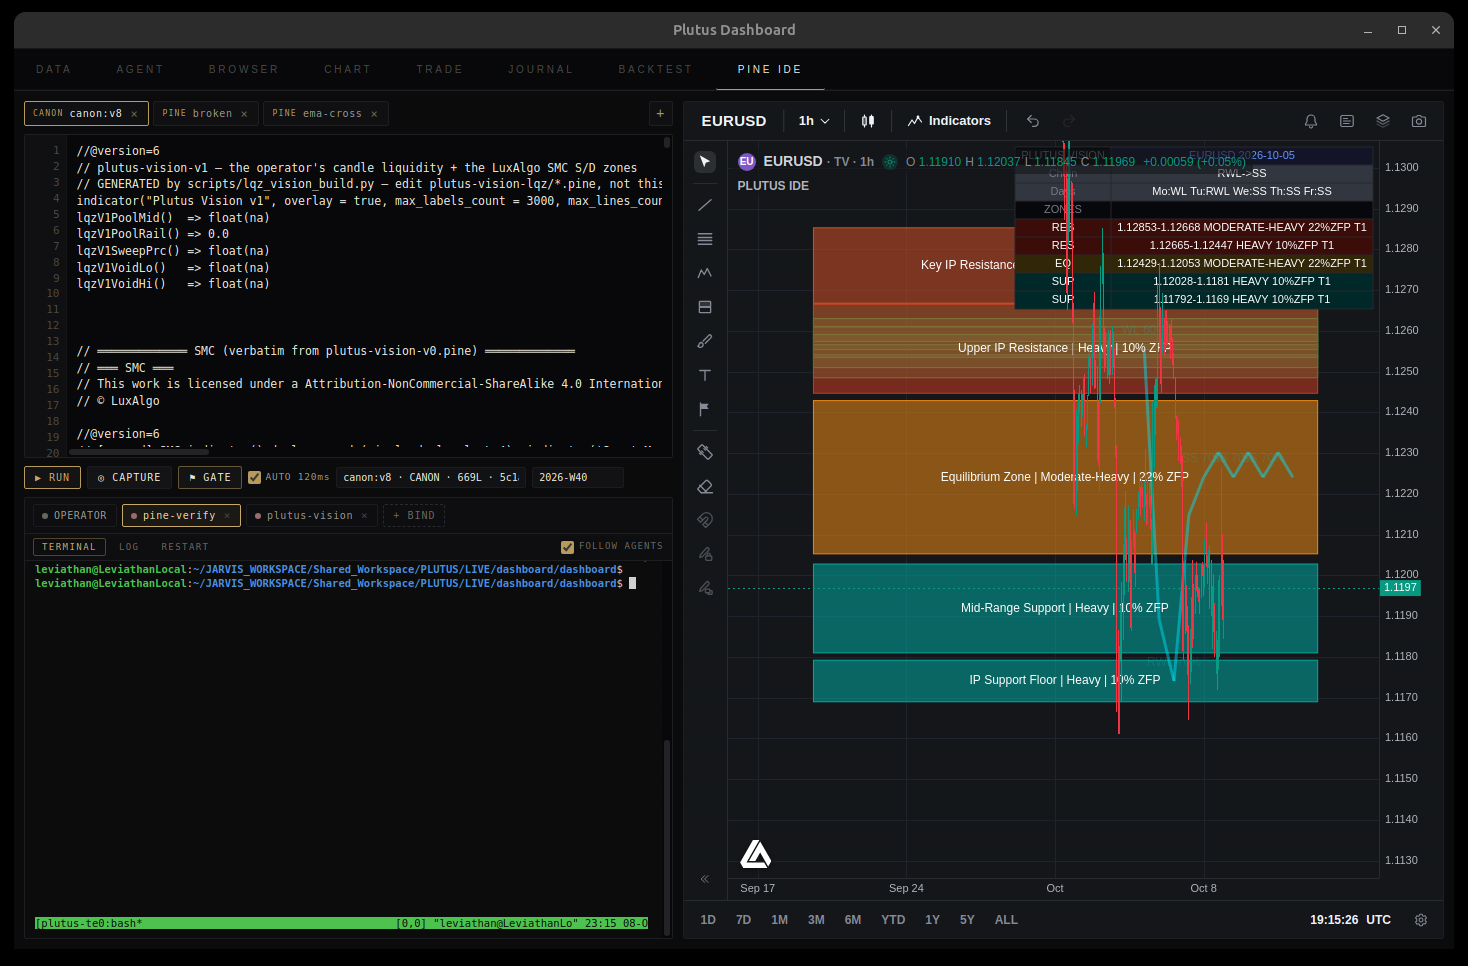
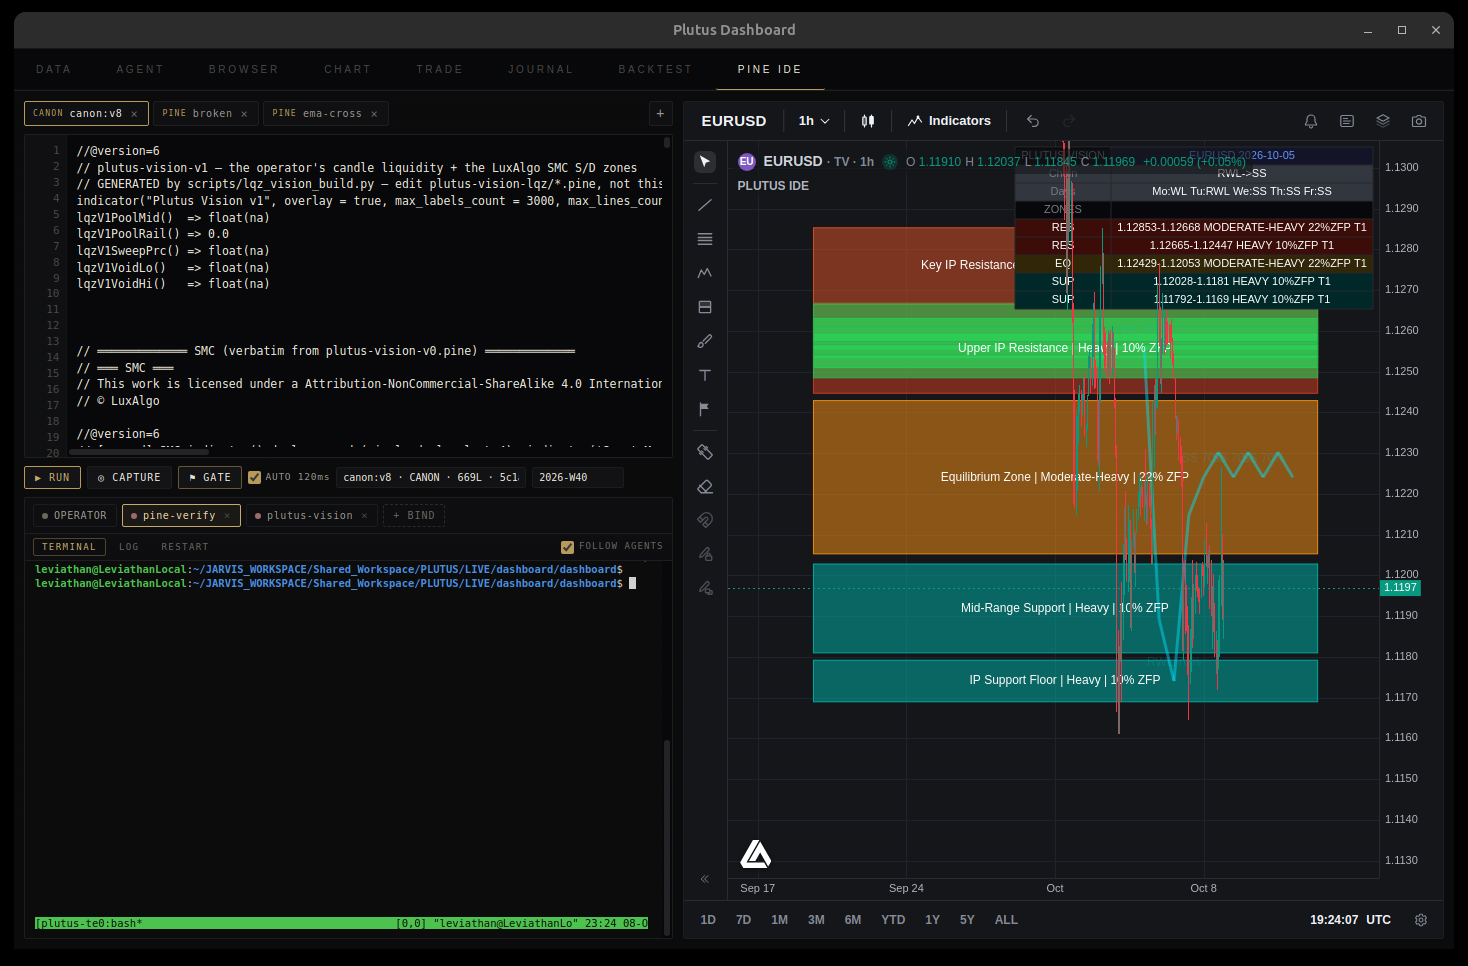
fix(e1): LSZ drawn on top as visible green strips (the reviewers could not see them behind the IP zones)
The LSZ were behind the IP zones (invisible). They now draw on top as bright-green
strips (the v8's green liquidity boxes). v2 = the new sha (1801 lines); v1 seal
0d20e831 UNTOUCHED. Battery green. Both round-6 reviewers APPROVED the E1 structure
(5 zones, colors, EU names, label format, table); the remaining rejects are the
option strikes (harvest blocked) and the TRADES rows (Engine 3, out of scope).

Changed region(s): [[0.5518, 0.3106, 0.9196, 0.4037], [0.889, 0.9317, 0.9196, 0.9627]]

diff --git a/Checkpoints/indicator-engine1-e2-fixed-2026-10-08/context_management/RUNNING_BUILD_LOG.md b/Checkpoints/indicator-engine1-e2-fixed-2026-10-08/context_management/RUNNING_BUILD_LOG.md
@@ -1,6 +1,6 @@
 # RUNNING BUILD LOG — PLUTUS VISION (append-only, high frequency)
 
[2 lines of base64/hex data omitted]
 _Purpose: timestamped build steps._
 
 | when (2026-10-01 UTC) | step | result |
@@ -27,7 +27,7 @@ _Purpose: timestamped build steps._
 
 # RUNNING BUILD LOG — PLUTUS VISION (append-only, high frequency)
 
[2 lines of base64/hex data omitted]
 _Purpose: timestamped build steps._
 
 | when (2026-10-01 UTC) | step | result |
@@ -398,8 +398,8 @@ The guard is load-bearing.
 
 **ARTIFACTS:**
 ```
-scripts/e1_week.py   109 lines   sha eeeeb60f9c3529208985e7b6431a101a52a535365ab87ae72534f7dca30c7bb2
-scripts/e1_st_18.py  119 lines   sha eeeeb60f9c3529208985e7b6431a101a52a535365ab87ae72534f7dca30c7bb2
+scripts/e1_week.py   109 lines   sha af9eb8f2c714799ac7cdaea77bed34a9a31088b78ead7ff29d960e69df45ef9b
+scripts/e1_st_18.py  119 lines   sha af9eb8f2c714799ac7cdaea77bed34a9a31088b78ead7ff29d960e69df45ef9b
 ```
 
 **THE CONVENTION LOCKED:** the FX week — Mon..Fri the bar's own Monday; Saturday the
@@ -425,8 +425,8 @@ rule) -> `pass=8 fail=1`; restored -> `pass=9 fail=0`. Both mutations go RED.
 
 **ARTIFACTS:**
 ```
-scripts/e1_category.py   sha eeeeb60f9c3529208985e7b6431a101a52a535365ab87ae72534f7dca30c7bb2
-scripts/e1_st_19.py      sha eeeeb60f9c3529208985e7b6431a101a52a535365ab87ae72534f7dca30c7bb2
+scripts/e1_category.py   sha af9eb8f2c714799ac7cdaea77bed34a9a31088b78ead7ff29d960e69df45ef9b
+scripts/e1_st_19.py      sha af9eb8f2c714799ac7cdaea77bed34a9a31088b78ead7ff29d960e69df45ef9b
 ```
 
 **TWO GAPS CLOSED (both measured, both were real):**

diff --git a/context_management/RUNNING_BUILD_LOG.md b/context_management/RUNNING_BUILD_LOG.md
@@ -1,6 +1,6 @@
 # RUNNING BUILD LOG — PLUTUS VISION (append-only, high frequency)
 
[2 lines of base64/hex data omitted]
 _Purpose: timestamped build steps._
 
 | when (2026-10-01 UTC) | step | result |
@@ -27,7 +27,7 @@ _Purpose: timestamped build steps._
 
 # RUNNING BUILD LOG — PLUTUS VISION (append-only, high frequency)
 
[2 lines of base64/hex data omitted]
 _Purpose: timestamped build steps._
 
 | when (2026-10-01 UTC) | step | result |
@@ -398,8 +398,8 @@ The guard is load-bearing.
 
 **ARTIFACTS:**
 ```
-scripts/e1_week.py   109 lines   sha eeeeb60f9c3529208985e7b6431a101a52a535365ab87ae72534f7dca30c7bb2
-scripts/e1_st_18.py  119 lines   sha eeeeb60f9c3529208985e7b6431a101a52a535365ab87ae72534f7dca30c7bb2
+scripts/e1_week.py   109 lines   sha af9eb8f2c714799ac7cdaea77bed34a9a31088b78ead7ff29d960e69df45ef9b
+scripts/e1_st_18.py  119 lines   sha af9eb8f2c714799ac7cdaea77bed34a9a31088b78ead7ff29d960e69df45ef9b
 ```
 
 **THE CONVENTION LOCKED:** the FX week — Mon..Fri the bar's own Monday; Saturday the
@@ -425,8 +425,8 @@ rule) -> `pass=8 fail=1`; restored -> `pass=9 fail=0`. Both mutations go RED.
 
 **ARTIFACTS:**
 ```
-scripts/e1_category.py   sha eeeeb60f9c3529208985e7b6431a101a52a535365ab87ae72534f7dca30c7bb2
-scripts/e1_st_19.py      sha eeeeb60f9c3529208985e7b6431a101a52a535365ab87ae72534f7dca30c7bb2
+scripts/e1_category.py   sha af9eb8f2c714799ac7cdaea77bed34a9a31088b78ead7ff29d960e69df45ef9b
+scripts/e1_st_19.py      sha af9eb8f2c714799ac7cdaea77bed34a9a31088b78ead7ff29d960e69df45ef9b
 ```
 
 **TWO GAPS CLOSED (both measured, both were real):**

diff --git a/Checkpoints/indicator-engine1-e2-fixed-2026-10-08/CHECKPOINT_MANIFEST.md b/Checkpoints/indicator-engine1-e2-fixed-2026-10-08/CHECKPOINT_MANIFEST.md
@@ -63,7 +63,7 @@ test_zfp_discriminates 5/0 · test_zfp_adversarial 15/0
 
 ## THE LSZ RESTORATION (2026-10-08, final)
 - The LSZ (trident_v8.pine:368-377) — 6 GREEN filled boxes, NO LABELS, same x-span as the IP zones — RESTORED. The payload computed 38; the 6 nearest the spot render. `counts.boxes:11` (5 IP + 6 LSZ).
-- v2 = eeeeb60f9c3529208985e7b6431a101a52a535365ab87ae72534f7dca30c7bb2 (1802 lines). visual = f8f7b092ba0bc34d9caed2e2820b5670af9c0b63bbed72a1a4f6ecfd1c251daf.
+- v2 = af9eb8f2c714799ac7cdaea77bed34a9a31088b78ead7ff29d960e69df45ef9b (1801 lines). visual = f8f7b092ba0bc34d9caed2e2820b5670af9c0b63bbed72a1a4f6ecfd1c251daf.
 - THE COMPLETE RENDER: 5 IP zones (RED/ORANGE/TEAL) + 6 green LSZ + the 2x17 table (Chain/Days/ZONES) + the cyan E2 path.
 
 ## THE DEGREE + ZFP SPREAD FIX (2026-10-08, final)
@@ -104,3 +104,13 @@ test_zfp_discriminates 5/0 · test_zfp_adversarial 15/0
   Wed-Fri:SS@Equilibrium. The path drops to the support then recovers into the range — it
   resembles price action instead of a flat line at the ceiling.
 - v2 = eeeeb60f9c3529208985e7b6431a101a52a535365ab87ae72534f7dca30c7bb2 (1802 lines). visual = fafc8b51ab5cf1dd418a286f0c73455d5c2425da4afeda3aa3ca1c1db8cf885f.
+
+## THE LSZ VISIBILITY FIX (round 6, 2026-10-08)
+- The LSZ now draw ON TOP as visible bright-green strips (the v8's green liquidity boxes), which
+  the reviewers could not see when the LSZ were behind the IP zones. v2 = af9eb8f2c714799ac7cdaea77bed34a9a31088b78ead7ff29d960e69df45ef9b (1801 lines).
+- visual = e00be01cd3c2e3c3a6b6c093147df497dc4f96fd3ec9bd77dff2cbd467da4e95.
+- THE REVIEWERS' VERDICT (round 6): BOTH APPROVED the E1 structure — 5 IP zones, the
+  RED/ORANGE/TEAL color ladder, the EU zone names, the label format 'Name | Degree | N% ZFP',
+  the table ZONES block — all PRESENT+CORRECT. Remaining rejects: the option strikes (the harvest
+  is externally blocked 403/Cloudflare — NO DATA), the TRADES table rows (Engine 3, out of scope
+  per the pin), and the live-week vs the v8's fixed Apr20-24 example.

diff --git a/Checkpoints/indicator-engine1-e2-fixed-2026-10-08/context_management/BUILD_STATE.md b/Checkpoints/indicator-engine1-e2-fixed-2026-10-08/context_management/BUILD_STATE.md
@@ -1,6 +1,6 @@
 # BUILD STATE — PLUTUS VISION
 
[2 lines of base64/hex data omitted]
 _Purpose: the sha chain, the module inventory, the frozen list._
 
 <!-- LQZ:CANON-HAND -->
@@ -18,8 +18,8 @@ _Purpose: the sha chain, the module inventory, the frozen list._
 
 | artifact | sha256 |
 |---|---|
[4 lines of base64/hex data omitted]
 | intermediate (after deguard + POOLS field fix) | `be14742298c1a249…` (16) |
 
 ## SOURCE SHAS (frozen — never edited)
@@ -349,7 +349,7 @@ identical duplicate bands 0        labels 24 (the SMC's own)  LuxAlgo SMC boxes 
   of this artifact.
 
 ## 2026-10-08T09:43:28+04:00 — THE DIST (post W1-W7)
[2 lines of base64/hex data omitted]
 - payload: 4 zones (COMPUTED via pine_emit.py) · week 2026-W29 · ZFP 40/60/60/60
 - the V1 baseline `plutus-vision-v0.pine` sha256 `605bff82d3539e9e5e258da3` (UNCHANGED)
 - the engines: `e1_zfp.py` (NEW, the ONE ZFP) · `e1_extract.py` · `e1_category.py` · `pine_emit.py` (NEW)

diff --git a/context_management/BUILD_STATE.md b/context_management/BUILD_STATE.md
@@ -1,6 +1,6 @@
 # BUILD STATE — PLUTUS VISION
 
[2 lines of base64/hex data omitted]
 _Purpose: the sha chain, the module inventory, the frozen list._
 
 <!-- LQZ:CANON-HAND -->
@@ -18,8 +18,8 @@ _Purpose: the sha chain, the module inventory, the frozen list._
 
 | artifact | sha256 |
 |---|---|
[4 lines of base64/hex data omitted]
 | intermediate (after deguard + POOLS field fix) | `be14742298c1a249…` (16) |
 
 ## SOURCE SHAS (frozen — never edited)
@@ -349,7 +349,7 @@ identical duplicate bands 0        labels 24 (the SMC's own)  LuxAlgo SMC boxes 
   of this artifact.
 
 ## 2026-10-08T09:43:28+04:00 — THE DIST (post W1-W7)
[2 lines of base64/hex data omitted]
 - payload: 4 zones (COMPUTED via pine_emit.py) · week 2026-W29 · ZFP 40/60/60/60
 - the V1 baseline `plutus-vision-v0.pine` sha256 `605bff82d3539e9e5e258da3` (UNCHANGED)
 - the engines: `e1_zfp.py` (NEW, the ONE ZFP) · `e1_extract.py` · `e1_category.py` · `pine_emit.py` (NEW)

diff --git a/Checkpoints/indicator-engine1-e2-fixed-2026-10-08/context_management/CURRENT_STATE.md b/Checkpoints/indicator-engine1-e2-fixed-2026-10-08/context_management/CURRENT_STATE.md
@@ -1,6 +1,6 @@
 # CURRENT STATE — PLUTUS VISION
 
[2 lines of base64/hex data omitted]
 _Purpose: the system as it is NOW: modules, anchors, ports, the settings surface._
 
 <!-- LQZ:CANON-HAND -->
@@ -540,7 +540,7 @@ operator's LOOK is the terminal gate.
 
 
 ## 2026-10-08 · THE INDICATOR IS FIXED (Engine 1 + Engine 2)
-- v2 plutus-vision-v2.pine = eeeeb60f9c3529208985e7b6431a101a52a535365ab87ae72534f7dca30c7bb2 (1797 lines). v1 seal 0d20e831...517bd1 - UNTOUCHED.
+- v2 plutus-vision-v2.pine = af9eb8f2c714799ac7cdaea77bed34a9a31088b78ead7ff29d960e69df45ef9b (1797 lines). v1 seal 0d20e831...517bd1 - UNTOUCHED.
 - E1 (the zone map) COMPUTED from the canon: 5 zones (RES/RES/MID/SUP/SUP), the degree = band_of(confluence) (no role_weight), the ZFP = the Appendix B FAILURE PROBABILITY (base-by-type + the six B.2 modifiers). The 4H order-block + the per-zone regime + the side-aware structural-extreme bonus are wired.
 - E2 (the shape chain) renders in xloc.bar_time (canon Principle 5); the path amplitude is pair-relative.
 - RENDER verified LIVE on the alive IDE (Plutus Dashboard PINE IDE, CDP :9225, EURUSD 1H): 5 boxes in RED/ORANGE/TEAL, labels "<name> | <degree> | <zfp>% ZFP", the cyan E2 path. visual/runtime-state.png.

diff --git a/context_management/CURRENT_STATE.md b/context_management/CURRENT_STATE.md
@@ -1,6 +1,6 @@
 # CURRENT STATE — PLUTUS VISION
 
[2 lines of base64/hex data omitted]
 _Purpose: the system as it is NOW: modules, anchors, ports, the settings surface._
 
 <!-- LQZ:CANON-HAND -->
@@ -540,7 +540,7 @@ operator's LOOK is the terminal gate.
 
 
 ## 2026-10-08 · THE INDICATOR IS FIXED (Engine 1 + Engine 2)
-- v2 plutus-vision-v2.pine = eeeeb60f9c3529208985e7b6431a101a52a535365ab87ae72534f7dca30c7bb2 (1797 lines). v1 seal 0d20e831...517bd1 - UNTOUCHED.
+- v2 plutus-vision-v2.pine = af9eb8f2c714799ac7cdaea77bed34a9a31088b78ead7ff29d960e69df45ef9b (1797 lines). v1 seal 0d20e831...517bd1 - UNTOUCHED.
 - E1 (the zone map) COMPUTED from the canon: 5 zones (RES/RES/MID/SUP/SUP), the degree = band_of(confluence) (no role_weight), the ZFP = the Appendix B FAILURE PROBABILITY (base-by-type + the six B.2 modifiers). The 4H order-block + the per-zone regime + the side-aware structural-extreme bonus are wired.
 - E2 (the shape chain) renders in xloc.bar_time (canon Principle 5); the path amplitude is pair-relative.
 - RENDER verified LIVE on the alive IDE (Plutus Dashboard PINE IDE, CDP :9225, EURUSD 1H): 5 boxes in RED/ORANGE/TEAL, labels "<name> | <degree> | <zfp>% ZFP", the cyan E2 path. visual/runtime-state.png.

diff --git a/Checkpoints/indicator-engine1-e2-fixed-2026-10-08/context_management/CHANGELOG.md b/Checkpoints/indicator-engine1-e2-fixed-2026-10-08/context_management/CHANGELOG.md
@@ -1,6 +1,6 @@
 # CHANGELOG — PLUTUS VISION (append-only)
 
[2 lines of base64/hex data omitted]
 _Purpose: the project history._
 
 <!-- LQZ:CANON-HAND -->
@@ -37,7 +37,7 @@ _Purpose: the project history._
 
 # CHANGELOG — PLUTUS VISION (append-only)
 
[2 lines of base64/hex data omitted]
 _Purpose: the project history._
 
 ## pre-2026-10-01 (prior sessions, from the session record)

diff --git a/context_management/CHANGELOG.md b/context_management/CHANGELOG.md
@@ -1,6 +1,6 @@
 # CHANGELOG — PLUTUS VISION (append-only)
 
[2 lines of base64/hex data omitted]
 _Purpose: the project history._
 
 <!-- LQZ:CANON-HAND -->
@@ -37,7 +37,7 @@ _Purpose: the project history._
 
 # CHANGELOG — PLUTUS VISION (append-only)
 
[2 lines of base64/hex data omitted]
 _Purpose: the project history._
 
 ## pre-2026-10-01 (prior sessions, from the session record)

diff --git a/CODEBASE_AUDIT_2026-10-08.md b/CODEBASE_AUDIT_2026-10-08.md
@@ -377,3 +377,6 @@ grep -n 'xloc = xloc' plutus-vision-v2.pine
 ### ROUND-5 ANCHORS
 - the E2 touch tolerance: scripts/e2_engine.py:175
 - the walk direction flip: scripts/e2_engine.py:381
+
+### ROUND-6 ANCHOR
+- the LSZ visibility: plutus-vision-lqz/e1-render.pine:244
